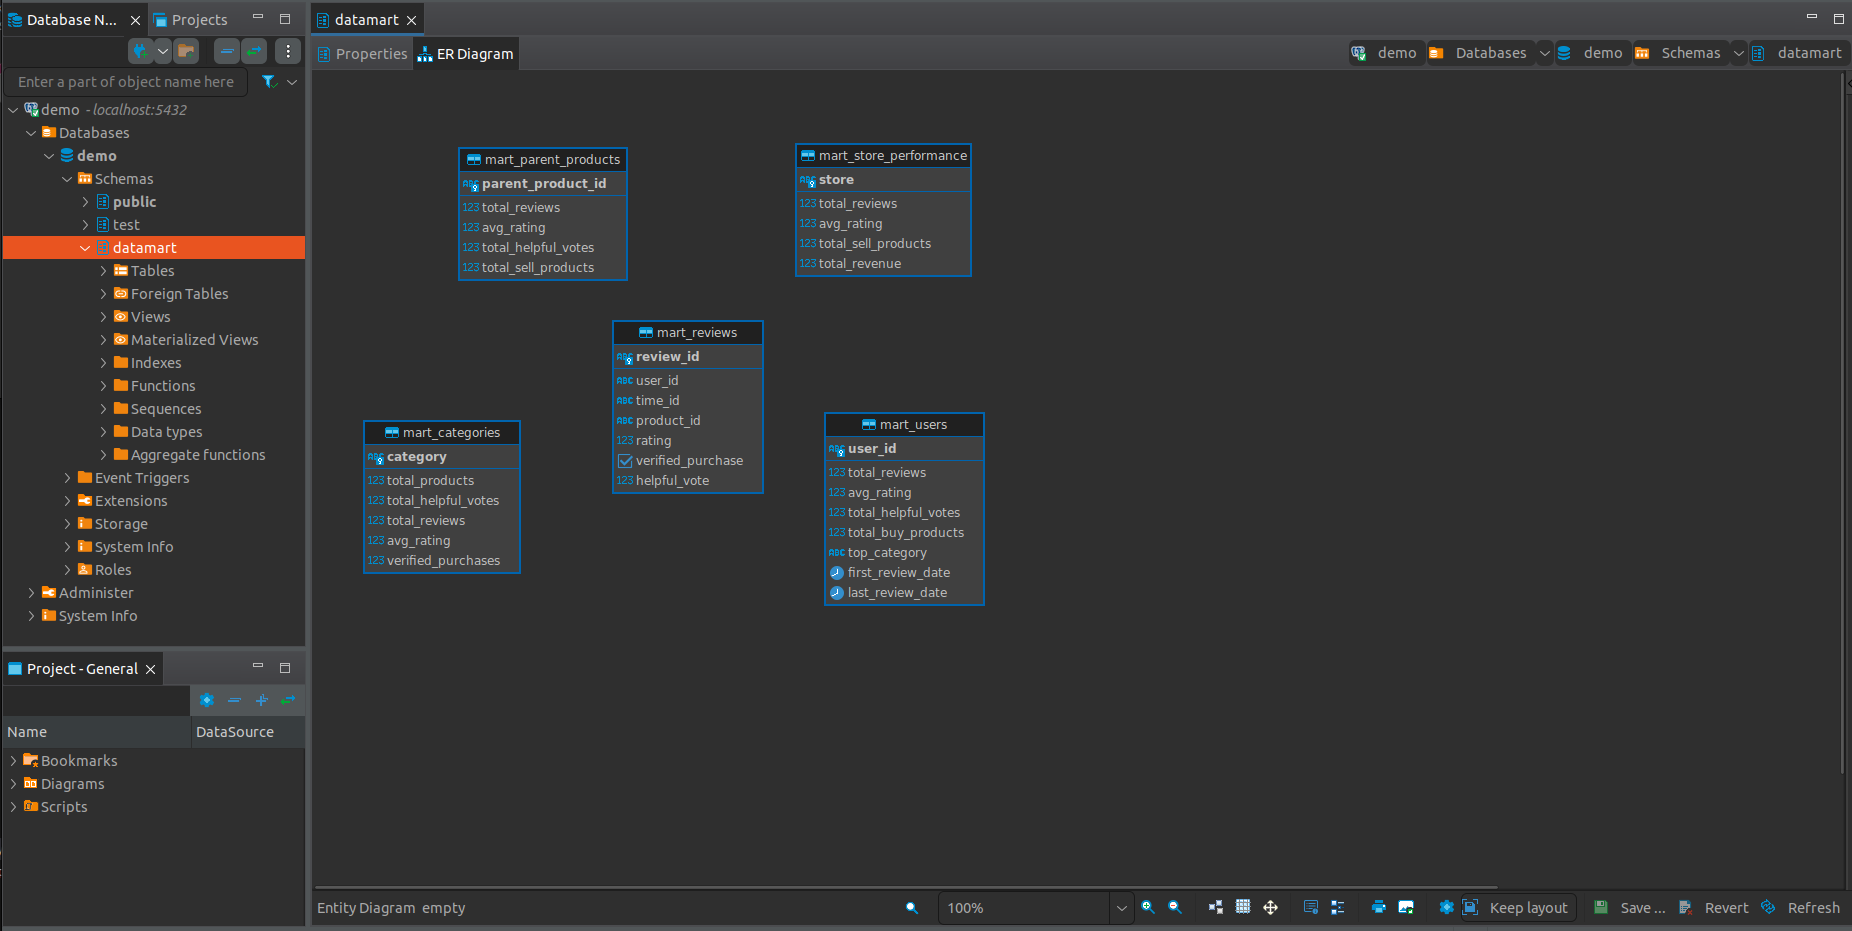
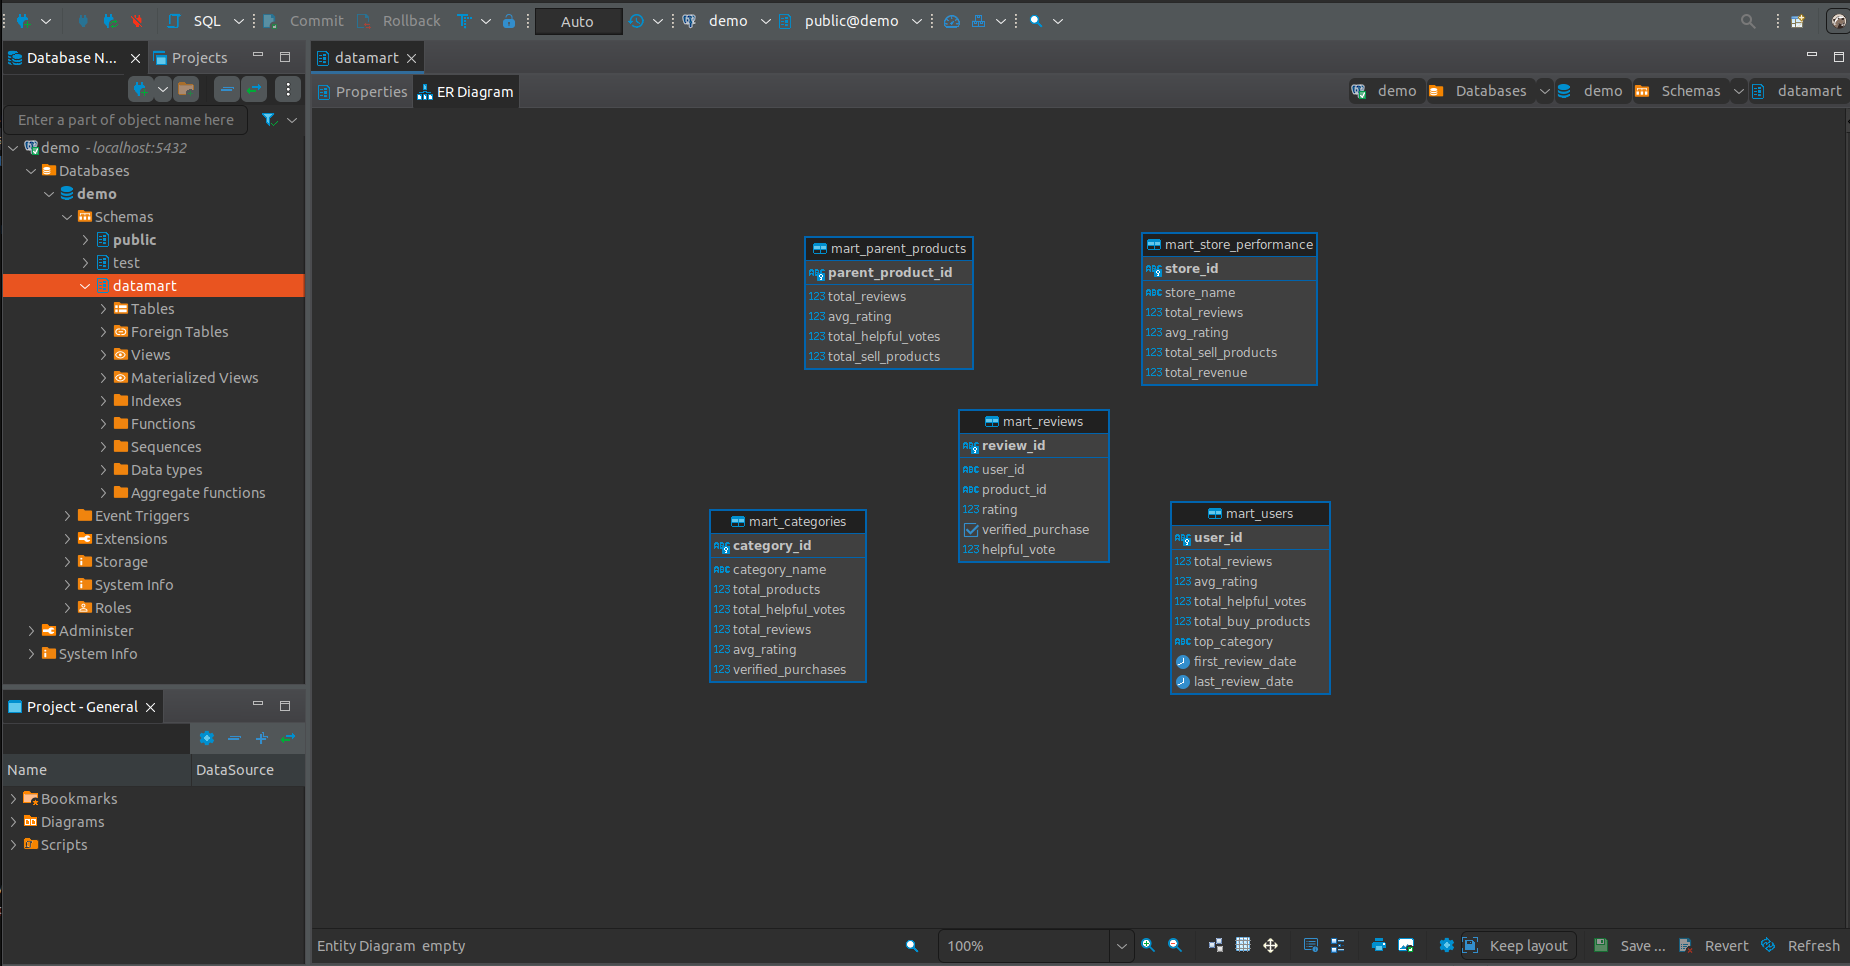
init

diff --git a/batch_processing/create_data_mart_tables.py b/batch_processing/create_data_mart_tables.py
@@ -54,7 +54,8 @@ def create_tables():
     mart_categories_table = f"{DATAMART_SCHEMA}.mart_categories"
     mart_categories_create = f"""
         CREATE TABLE IF NOT EXISTS {mart_categories_table} (
-            category VARCHAR PRIMARY KEY,
+            category_id VARCHAR PRIMARY KEY,
+            category_name VARCHAR,
             total_products BIGINT,
             total_helpful_votes BIGINT,
             total_reviews BIGINT,
@@ -68,7 +69,8 @@ def create_tables():
     mart_store_performance_table = f"{DATAMART_SCHEMA}.mart_store_performance"
     mart_store_performance_create = f"""
         CREATE TABLE IF NOT EXISTS {mart_store_performance_table} (
-            store VARCHAR PRIMARY KEY,
+            store_id VARCHAR PRIMARY KEY,
+            store_name VARCHAR,
             total_reviews BIGINT,
             avg_rating FLOAT,
             total_sell_products BIGINT,
@@ -83,7 +85,6 @@ def create_tables():
         CREATE TABLE IF NOT EXISTS {mart_reviews_table} (
             review_id VARCHAR,
             user_id VARCHAR,
-            time_id VARCHAR,
             product_id VARCHAR,
             rating FLOAT,
             verified_purchase BOOLEAN,

diff --git a/k8s/airflow/dags/batch_dag_pipeline.py b/k8s/airflow/dags/batch_dag_pipeline.py
@@ -279,6 +279,6 @@ with DAG(
     #     get_logs=True,  # Stream logs to Airflow
     # )
 
-    spark_raw2delta_avro_task >> wait_for_raw2delta_avro >> spark_merge2delta_task >> wait_for_merge2delta >> spark_adding_uuidv7_task >> wait_for_adding_uuidv7 >> [spark_generate_silver_schema_task, spark_generate_data_mart_task]
-    # spark_raw2delta_avro_task >> wait_for_raw2delta_avro >> spark_merge2delta_task >> wait_for_merge2delta >> spark_adding_uuidv7_task >> wait_for_adding_uuidv7 >> spark_generate_data_mart_task
+    # spark_raw2delta_avro_task >> wait_for_raw2delta_avro >> spark_merge2delta_task >> wait_for_merge2delta >> spark_adding_uuidv7_task >> wait_for_adding_uuidv7 >> [spark_generate_silver_schema_task, spark_generate_data_mart_task]
+    spark_raw2delta_avro_task >> wait_for_raw2delta_avro >> spark_merge2delta_task >> wait_for_merge2delta >> spark_adding_uuidv7_task >> wait_for_adding_uuidv7 >> spark_generate_data_mart_task
     # spark_generate_data_mart_task >> wait_for_generate_data_mart

diff --git a/batch_processing/generate_data_mart.py b/batch_processing/generate_data_mart.py
@@ -135,7 +135,8 @@ def main():
             GROUP BY category
         )
         SELECT 
-            d1.category,
+            d1.category_id,
+            d1.category as category_name,
             COUNT(DISTINCT d1.parent_product_id) as total_products,
             SUM(d1.helpful_vote) as total_helpful_votes,
             COUNT(*) as total_reviews,
@@ -166,7 +167,8 @@ def main():
             GROUP BY store
         )
         SELECT 
-            d1.store,
+            d1.store_id,
+            d1.store as store_name,
             COUNT(*) as total_reviews,
             ROUND(AVG(d1.rating)) as avg_rating,
             COUNT(DISTINCT d1.parent_product_id) as total_sell_products,
@@ -194,7 +196,6 @@ def main():
         SELECT 
             review_id, 
             user_id, 
-            time_id, 
             product_id, 
             rating, 
             verified_purchase, 

diff --git a/batch_processing/adding_uuidv7.py b/batch_processing/adding_uuidv7.py
@@ -43,14 +43,15 @@ def main():
     df_merge = spark.read.format("delta").load(
         f"s3a://{BUCKET_NAME}/{MERGE_DATA_FOLDER}"
     )
-    df_merge = df_merge.withColumn(
-        "review_id", uuidv7_udf()
-    )  # adding review_id as uuidv7
-    df_merge = df_merge.withColumn("time_id", uuidv7_udf())  # adding time_id as uuidv7
+    df_merge = df_merge.withColumn("review_id", uuidv7_udf())
+    df_merge = df_merge.withColumn("store_id", uuidv7_udf())
+    df_merge = df_merge.withColumn("category_id", uuidv7_udf())
+
+    # df_merge = df_merge.withColumn("time_id", uuidv7_udf())
     df_merge.createOrReplaceTempView("temp")
     spark.sql(
         """
-            SELECT review_id, time_id
+            SELECT review_id, store_id, category_id
             FROM temp
         """
     ).show()

diff --git a/batch_processing/config_k8s.py b/batch_processing/config_k8s.py
@@ -32,8 +32,11 @@ BATCH_PROCESSING_TIME = "3 minute"
 
 ### Postgres config
 WAREHOUSE_DATABASE = os.getenv("WAREHOUSE_DATABASE", "demo")
+# WAREHOUSE_ENDPOINT = os.getenv(
+#     "WAREHOUSE_ENDPOINT", "postgres-svc.infrastructure.svc.cluster.local"
+# )
 WAREHOUSE_ENDPOINT = os.getenv(
-    "WAREHOUSE_ENDPOINT", "postgres-svc.infrastructure.svc.cluster.local"
+    "WAREHOUSE_ENDPOINT", "localhost"
 )
 # WAREHOUSE_ENDPOINT = os.getenv("WAREHOUSE_ENDPOINT", "localhost")
 WAREHOUSE_PORT = os.getenv("WAREHOUSE_PORT", "5432")

diff --git a/README.md b/README.md
@@ -188,8 +188,8 @@ cd batch_processing && python upload_s3.py
 ### 4. Build and push docker image for spark processing
 ```shell
 cd batch_processing
-docker build -t longpk1/spark_processing:1.1.2 .
-docker push longpk1/spark_processing:1.1.2
+docker build -t longpk1/spark_processing:1.1.3 .
+docker push longpk1/spark_processing:1.1.3
 ```
 
 ### 5. Install Spark Operator
@@ -202,8 +202,8 @@ helm install spark-operator spark-operator/spark-operator --namespace processor 
 
 ### 1. Build and push docker image for Airflow pipeline
 ```shell
-docker build -t longpk1/airflow_pipeline:1.0.5 k8s/airflow/
-docker push longpk1/airflow_pipeline:1.0.5
+docker build -t longpk1/airflow_pipeline:1.0.6 k8s/airflow/
+docker push longpk1/airflow_pipeline:1.0.6
 ```
 
 ### 2. Deploy Airflow orchestration
